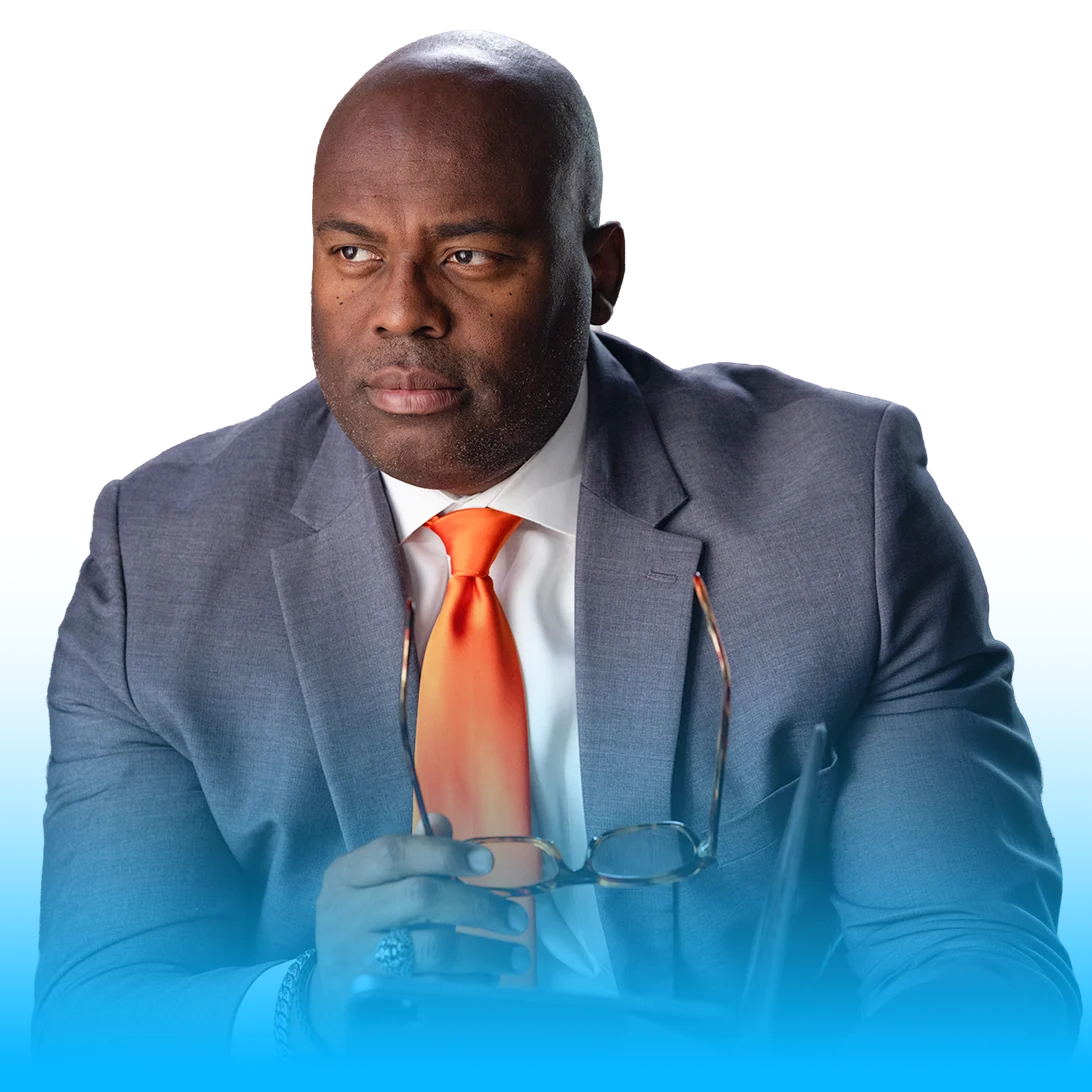
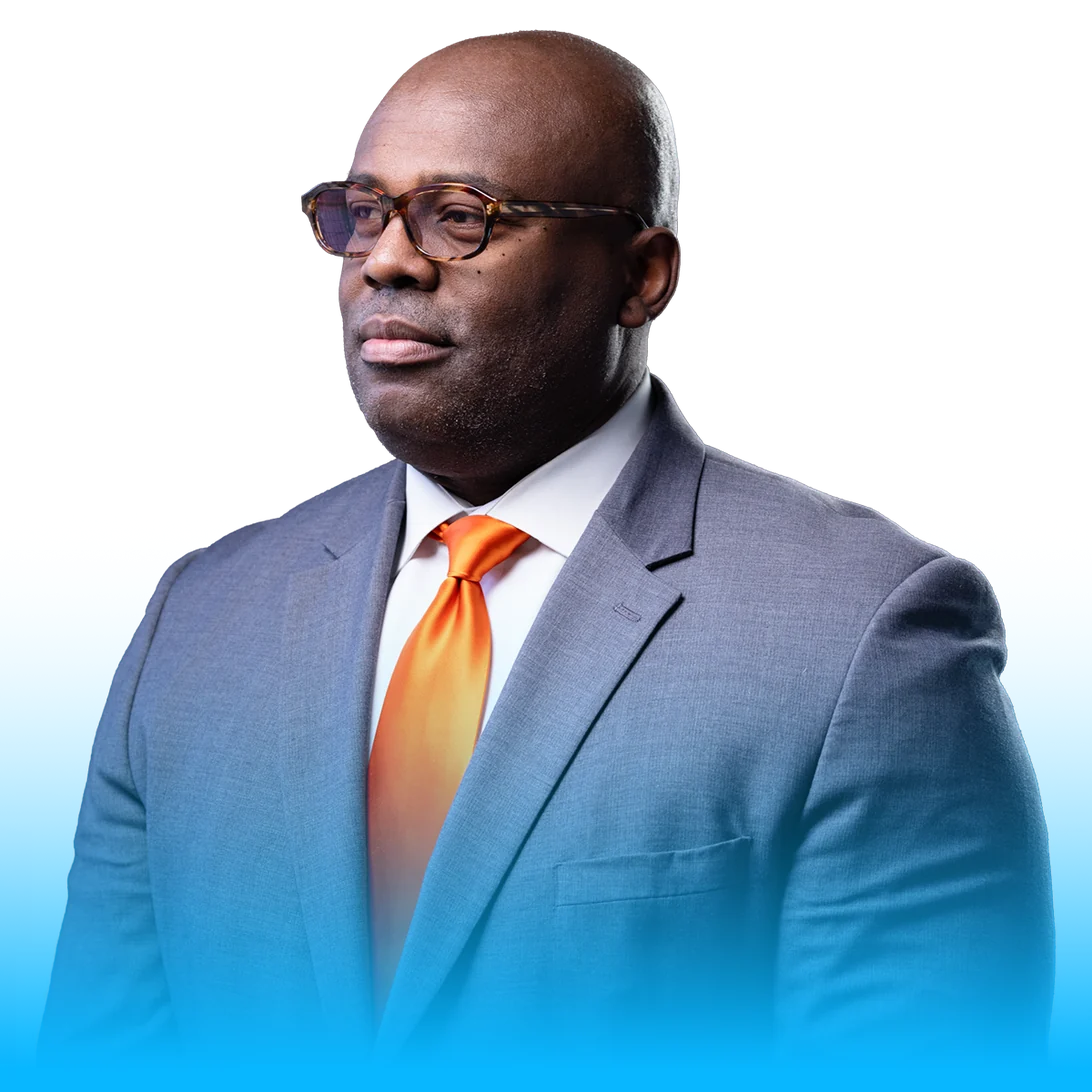
Home de escritorio: cambios del export del 2026-09-26
- Hero: foto nueva (el abogado sentado), la tarjeta del formulario pasa a
  degradado semitransparente y el claim sube 93px; los campos se mueven 3 a la
  derecha y 7 abajo.
- Aviso de cookies: 10px y otro reparto de líneas.
- Equipo: entran Racquel Medina (Chief Legal Strategy) y Alok Mohato (Abogado),
  Marysol Rogel pasa a una cuarta ranura que el borde corta y Katiuska
  Rodríguez sale del archivo. Las fotos se juntan y se encogen a 314×374.
- Mapa de sedes: etiquetas nuevas con el nombre de cada ciudad.
- Testimonios: las tarjetas dejan de decir "Nombre cliente" y muestran el tipo
  de caso; la cuarta cambia de foto y de recorte.
- Bio: retrato nuevo.

Comparado con el render del artboard: todas las bandas quedan por debajo de 10
bloques de diferencia salvo el hero, donde el CTA ya no va en su hueco del
archivo porque ahora es flotante.

Claude-Session: https://claude.ai/code/session_01La6LPV84R7CLvLGwBrghrh

diff --git a/src/components/sections/hero.tsx b/src/components/sections/hero.tsx
@@ -4,14 +4,19 @@ import { CamposConsulta } from "@/components/ui/campos-consulta";
 /**
  * Hero de la homepage — nodos del rango y=0..1142 de la frame 1:2.
  *
- * Geometría exacta del artboard (1920):
- *   fondo   6:88   x-3   y0    1920×1142  la foto más un degradado a #0F0F10 del
- *                                         71.37% al 100% (export del 2026-09-13; antes y9 y sin degradado)
+ * Geometría exacta del artboard (1920), export del 2026-09-26:
+ *   fondo   x-3 y0 1920×1142. El archivo apila tres fotos; la última, la del
+ *           abogado sentado, se dibuja 1988×2565 en (−15, +28) y tapa a las
+ *           otras dos salvo una franja de 28px que queda bajo la cabecera, así
+ *           que aquí va solo esa. Ya no lleva el degradado a #0F0F10 de antes.
  *   h1      6:3    x223  y276  565×255    Poppins 600 82px lh1.04 UPPER
- *   claim   6:23   x1260 y412  440×109    Poppins 300 36px lh1.04
- *   tarjeta 18:7   x223  y583  648×559    padding izq 38 / der 45 / sup 32
- *   campos         x261/555 y615/690, 271×52; comentarios 565×52; enviar 224×52
- *   aviso   6:87   x268  y910  558×56     (7px más adentro que los campos)
+ *   claim   6:23   x1260 y319  440×109    Poppins 300 36px lh1.04 (93px más arriba
+ *                                         que en el export anterior)
+ *   tarjeta 18:7   x223  y583  648×559    degradado 216.12° #172339 28.64% →
+ *                                         #40629F 76.27% al 71%; antes era plano
+ *   campos         x264/558 y622/697, 271×52; comentarios 565×52; enviar 224×52
+ *                  (el relleno de la tarjeta pasa de 38/32 a 41/39)
+ *   aviso   6:87   x271  y917  558×56     (7px más adentro que los campos)
  *   CTA     18:25  x1568 y883  349        ahora flotante en todo el sitio (floating-cta.tsx)
  *
  * A partir de `design` (1920px) se posiciona en absoluto para clavar esas
@@ -21,24 +26,18 @@ export function Hero() {
   return (
     <section className="relative -mt-[128px] overflow-hidden movil:-mt-[106px] movil:h-[1308px] design:h-[1142px]">
       <div className="absolute inset-0 movil:inset-auto movil:top-[-2px] movil:left-0 movil:h-[700px] movil:w-[402px] design:top-0 design:left-[-3px] design:h-[1142px] design:w-[1920px]">
-        {/* Son dos archivos de la MISMA foto y no uno solo colocado de dos
-            maneras: hero-escritorio.webp viene recortado 1920×1142 para el encuadre
-            de escritorio, y al móvil le falta justo lo que ese recorte quitó. El
-            de móvil es el original entero, 1920×2477.
-
-            Ninguno lleva `priority`: con carga diferida, el que queda en
+        {/* Escritorio y móvil llevan fotos DISTINTAS: en el lienzo de 1920 la
+            del abogado sentado (export del 2026-09-26) y en el de 402 la de
+            antes. Ninguna lleva `priority`: con carga diferida, la que queda en
             display:none no se llega a pedir, así que cada lienzo baja una sola
             foto. Con `priority` el navegador se baja las dos. */}
         <Image
-          src="/images/hero-escritorio.webp"
+          src="/images/hero-escritorio-2026.webp"
           alt=""
-          fill
-          sizes="100vw"
-          className="object-cover object-[62%_center] movil:hidden"
-        />
-        <div
-          aria-hidden
-          className="absolute inset-0 hidden bg-[linear-gradient(180deg,#0F0F1000_71.37%,#0F0F10_100%)] design:block"
+          width={1920}
+          height={2477}
+          sizes="1988px"
+          className="absolute inset-0 h-full w-full object-cover object-[62%_top] movil:hidden design:top-[28px] design:left-[-15px] design:h-[2565px] design:w-[1988px] design:max-w-none design:object-fill"
         />
         <Image
           src="/images/movil/hero-fondo.webp"
@@ -66,12 +65,12 @@ export function Hero() {
           <span className="text-vernal-accent block">en texas</span>
         </h1>
 
-        <p className="max-w-[440px] text-[26px] leading-[27px] font-light text-white movil:absolute movil:top-[563px] movil:left-[38px] movil:w-[282px] movil:max-w-none movil:text-[24px] movil:leading-[25px] design:absolute design:top-[412px] design:left-[1260px] design:w-[440px] design:max-w-none design:leading-[37px] design:text-[36px]">
+        <p className="max-w-[440px] text-[26px] leading-[27px] font-light text-white movil:absolute movil:top-[563px] movil:left-[38px] movil:w-[282px] movil:max-w-none movil:text-[24px] movil:leading-[25px] design:absolute design:top-[319px] design:left-[1260px] design:w-[440px] design:max-w-none design:leading-[37px] design:text-[36px]">
           <span className="text-vernal-accent">Somos inmigrantes</span> como tú y
           defendemos tus derechos.
         </p>
 
-        <form className="bg-vernal-card w-full max-w-[648px] p-[38px] movil:absolute movil:top-[698px] movil:left-0 movil:h-[610px] movil:w-[402px] movil:max-w-none movil:px-[38px] movil:pt-[39px] movil:pb-0 design:absolute design:top-[583px] design:left-[223px] design:h-[559px] design:w-[648px] design:max-w-none design:pt-[32px] design:pr-[45px] design:pb-0 design:pl-[38px]">
+        <form className="bg-vernal-card w-full max-w-[648px] p-[38px] movil:absolute movil:top-[698px] movil:left-0 movil:h-[610px] movil:w-[402px] movil:max-w-none movil:px-[38px] movil:pt-[39px] movil:pb-0 design:absolute design:top-[583px] design:left-[223px] design:h-[559px] design:w-[648px] design:max-w-none design:bg-[linear-gradient(216.12deg,rgb(23_35_57/0.71)_28.64%,rgb(64_98_159/0.71)_76.27%)] design:pt-[39px] design:pr-[42px] design:pb-0 design:pl-[41px]">
           <CamposConsulta />
         </form>
       </div>

diff --git a/src/components/sections/nuestro-equipo.tsx b/src/components/sections/nuestro-equipo.tsx
@@ -52,8 +52,13 @@ import { Carrusel } from "@/components/ui/carrusel";
  * margen negativo. Sin él, todo lo de debajo baja un píxel.
  */
 
-/** Ranuras del archivo; se quedan fijas y rota quién cae en cada una. */
-const ranuras = [{ left: 915 }, { left: 1255.6 }, { left: 1596.3 }];
+/**
+ * Ranuras del archivo; se quedan fijas y rota quién cae en cada una. En el
+ * export del 2026-09-26 las fotos se juntaron (paso de 340.6 a 329.9), se
+ * encogieron (325×387 → 314×374) y apareció una CUARTA ranura, que el borde del
+ * lienzo corta casi entera: de ella solo se ve la franja bajo el fundido.
+ */
+const ranuras = [{ left: 913 }, { left: 1242.8 }, { left: 1572.7 }, { left: 1902.5 }];
 
 const equipo = [
   {
@@ -64,15 +69,23 @@ const equipo = [
     cargoClase: "text-[#27ffa2]",
   },
   {
-    nombre: "Marysol Rogel",
-    cargo: "Asistente legal",
-    foto: "/images/equipo/marysol-rogel.webp",
+    nombre: "Racquel Medina",
+    cargo: "Chief Legal Strategy",
+    foto: "/images/equipo/racquel-medina.webp",
     cargoClase: "text-white",
   },
   {
-    nombre: "Katiuska Rodriguez",
-    cargo: "Asistente legal en tribunales",
-    foto: "/images/equipo/katiuska-rodriguez.webp",
+    nombre: "Alok Mohato",
+    cargo: "Abogado",
+    foto: "/images/equipo/alok-mohato.webp",
+    cargoClase: "text-white",
+  },
+  // Katiuska Rodríguez salió del archivo en el export del 2026-09-26 y Marysol
+  // Rogel pasó a la cuarta ranura, la que queda cortada.
+  {
+    nombre: "Marysol Rogel",
+    cargo: "Asistente legal",
+    foto: "/images/equipo/marysol-rogel.webp",
     cargoClase: "text-white",
   },
 ];
@@ -208,7 +221,7 @@ export function NuestroEquipo() {
               /* El móvil enseña una sola ranura. Las otras dos se ocultan en vez
                  de no renderizarse: así las flechas siguen girando los mismos
                  datos y quien esté en la ranura 0 es quien se ve. */
-              className={`design:absolute design:top-[253px] design:left-[var(--x)] design:w-[325px] ${
+              className={`design:absolute design:top-[261.5px] design:left-[var(--x)] design:w-[314px] ${
                 i === 0
                   ? "movil:absolute movil:top-0 movil:left-0 movil:h-full movil:w-full"
                   : "movil:hidden"
@@ -223,16 +236,16 @@ export function NuestroEquipo() {
                   {p.nombre}
                 </p>
                 <p
-                  className={`text-center text-[12px] leading-[12px] font-semibold uppercase movil:absolute movil:top-[926px] movil:left-0 movil:w-[402px] ${p.cargoClase}`}
+                  className={`text-center text-[12px] leading-[12px] font-semibold uppercase movil:absolute movil:top-[926px] movil:left-0 movil:w-[402px] design:mt-[14.5px] ${p.cargoClase}`}
                 >
                   {p.cargo}
                 </p>
                 <Image
                   src={p.foto}
                   alt={`${p.nombre}, ${p.cargo}`}
-                  width={325}
-                  height={387}
-                  className="mt-[47px] h-[387px] w-[325px] object-contain movil:absolute movil:top-[973px] movil:left-[45px] movil:mt-0 movil:h-[373px] movil:w-[313px]"
+                  width={314}
+                  height={374}
+                  className="mt-[47px] h-[387px] w-[325px] object-contain movil:absolute movil:top-[973px] movil:left-[45px] movil:mt-0 movil:h-[373px] movil:w-[313px] design:mt-[38.6px] design:h-[374px] design:w-[314px]"
                 />
               </div>
             </li>

diff --git a/src/components/sections/testimonios.tsx b/src/components/sections/testimonios.tsx
@@ -21,9 +21,10 @@ import { SelloVerificado } from "@/components/ui/iconos";
  *   título  69:13   x489 y563  946×109  dos líneas, la primera en #08b6ff
  *   botón   83:145  x822 y672  277×52
  *
- * OJO: "Nombre cliente / Ajuste de estatus" es TEXTO DE RELLENO del diseño, igual
- * en las cuatro tarjetas. Hay que pedirle al cliente los nombres y casos reales
- * antes de publicar, y su consentimiento para usarlos.
+ * OJO: en el export del 2026-09-26 el diseñador quitó el relleno "Nombre
+ * cliente" y dejó solo el tipo de caso, distinto en cada tarjeta (línea base
+ * 6571.1, 16/400). Los nombres siguen sin aparecer; las fotos son de clientes
+ * reales y hace falta su consentimiento antes de publicar.
  *
  * Lienzo móvil (y=9634..10290): una sola tarjeta de 299×345 en x50 y43, que es
  * la de escritorio escalada exactamente ×0.8329 (foto, recorte, degradado y
@@ -44,12 +45,12 @@ const ranuras = [
   { left: 1363, deg: 179.14, ini: 54.43, fin: 101.52 },
 ];
 
-/** Lo que ROTA: la foto y su recorte. */
+/** Lo que ROTA: la foto, su recorte y el tipo de caso. */
 const testimonios = [
-  { foto: "/images/testimonios/cliente-1.webp", img: { w: 565, h: 423, x: -112, y: -8 } },
-  { foto: "/images/testimonios/cliente-2.webp", img: { w: 359, h: 479, x: 0, y: -32 } },
-  { foto: "/images/testimonios/cliente-3.webp", img: { w: 359, h: 479, x: 0, y: -32 } },
-  { foto: "/images/testimonios/cliente-4.webp", img: { w: 379, h: 415, x: -10, y: 0 } },
+  { caso: "Ajuste de estatus", foto: "/images/testimonios/cliente-1.webp", img: { w: 565, h: 423, x: -112, y: -8 } },
+  { caso: "Visa T", foto: "/images/testimonios/cliente-2.webp", img: { w: 359, h: 479, x: 0, y: -32 } },
+  { caso: "Petición Familiar", foto: "/images/testimonios/cliente-3.webp", img: { w: 359, h: 479, x: 0, y: -32 } },
+  { caso: "Visa VAWA", foto: "/images/testimonios/cliente-4.webp", img: { w: 359, h: 479, x: 0, y: -38 } },
 ];
 
 function Flecha({
@@ -127,13 +128,8 @@ export function Testimonios() {
                     no pegado a la izquierda. El hueco entre sello y texto es 9. */}
                 <div className="absolute bottom-[22px] left-[22px] flex items-center gap-x-[10px] movil:right-[22px] movil:bottom-[29px] movil:justify-center movil:gap-x-[9px] design:right-[22px] design:bottom-[29px] design:left-[22px] design:justify-center design:gap-x-[9px]">
                   <SelloVerificado className="shrink-0" />
-                  <span className="text-white">
-                    <span className="block text-[16px] leading-[17px] font-bold">
-                      Nombre cliente
-                    </span>
-                    <span className="block text-[16px] leading-[17px]">
-                      Ajuste de estatus
-                    </span>
+                  <span className="block text-[16px] leading-[17px] text-white">
+                    {t.caso}
                   </span>
                 </div>
               </li>

diff --git a/src/components/sections/como-trabajamos.tsx b/src/components/sections/como-trabajamos.tsx
@@ -63,6 +63,23 @@ const marcadores = [
 ];
 
 /**
+ * Etiquetas del mapa, nuevas en el export del 2026-09-26: una caja de 44 de alto
+ * con relleno radial #172339 → #0F0F0F al 87% y un trazo de 3 por dentro, con el
+ * nombre de la ciudad centrado a 24px. Solo están en el lienzo de escritorio.
+ *
+ * El archivo mezcla pesos y colores sin criterio aparente (Dallas en 300 y el
+ * resto en 400; Forth Worth y Austin en blanco y las otras tres en cian) y
+ * escribe "Forth Worth": se deja literal, pendiente de confirmar.
+ */
+const etiquetasMapa = [
+  { ciudad: "Dallas", left: 549, top: 63, ancho: 122, clase: "text-vernal-accent font-light" },
+  { ciudad: "Forth Worth", left: 307, top: 105, ancho: 161, clase: "text-white" },
+  { ciudad: "Austin", left: 404, top: 223, ancho: 122, clase: "text-white" },
+  { ciudad: "Houston", left: 628, top: 283, ancho: 137, clase: "text-vernal-accent" },
+  { ciudad: "San Antonio", left: 358, top: 329, ancho: 168, clase: "text-vernal-accent" },
+];
+
+/**
  * Resplandor de los marcadores, de los filtros del export SVG (filter2..filter11).
  * Cada marcador lleva dos capas: el anillo y el punto, cada una con su sombra.
  *
@@ -141,6 +158,23 @@ export function ComoTrabajamos() {
               className="border-vernal-green absolute inset-0 rounded-full border-[3px]"
               style={{ boxShadow: BRILLO_ANILLO }}
             />
+          </span>
+        ))}
+
+        {etiquetasMapa.map((e) => (
+          <span
+            key={e.ciudad}
+            aria-hidden
+            className={`hidden items-center justify-center border-[3px] border-[#141d2e] bg-[radial-gradient(ellipse_at_30%_50%,rgb(23_35_57/0.87)_0%,rgb(15_15_15/0.87)_100%)] text-[24px] leading-[25px] design:absolute design:top-[var(--et)] design:left-[var(--el)] design:flex design:h-[44px] design:w-[var(--ew)] ${e.clase}`}
+            style={
+              {
+                "--el": `${e.left}px`,
+                "--et": `${e.top}px`,
+                "--ew": `${e.ancho}px`,
+              } as React.CSSProperties
+            }
+          >
+            {e.ciudad}
           </span>
         ))}
 

diff --git a/src/components/layout/aviso-cookies.tsx b/src/components/layout/aviso-cookies.tsx
@@ -11,7 +11,8 @@ import {
  * Aviso de cookies — export SVG del 2026-09-13, bajo la cabecera de 1920.
  *
  *   barra    x2 y128  1917×63  negro, superpuesta al hero (no empuja nada)
- *   texto    x223  Poppins 12/400 blanco, justificado, líneas base 154.2 y 168.2
+ *   texto    x223  Poppins 10/400 blanco, justificado, líneas base 152.5 y 164.5
+ *                  (en el export del 2026-09-13 era de 12 y rompía en otro sitio)
  *   Aceptar  x1358 y147  109×26  #08B6FF, texto 16/400 negro centrado
  *   Rechazar x1489 y147  109×26
  *   cerrar   X de 14×14 en x1622 y153, dos trazos de 2 en #08B6FF con punta redonda
@@ -48,7 +49,7 @@ export function AvisoCookies() {
       aria-label="Aviso de cookies"
       className="fixed inset-x-0 bottom-0 z-[90] flex flex-col gap-y-3 bg-black px-5 py-4 text-white sm:flex-row sm:items-center sm:gap-x-6 sm:px-8 design:absolute design:top-[128px] design:bottom-auto design:left-[2px] design:block design:h-[63px] design:w-[1917px] design:p-0"
     >
-      <p className="max-w-[860px] text-[12px] leading-[14px] design:absolute design:top-[15px] design:left-[221px] design:w-[857px] design:max-w-none design:text-justify">
+      <p className="max-w-[860px] text-[12px] leading-[14px] design:absolute design:top-[15px] design:left-[221px] design:w-[782px] design:max-w-none design:text-[10px] design:leading-[12px] design:text-justify">
         Usamos cookies propias y de terceros para mejorar tu experiencia de
         navegación, analizar el tráfico del sitio y mostrarte contenido
         personalizado. Puedes aceptar todas las cookies, rechazarlas o configurar
